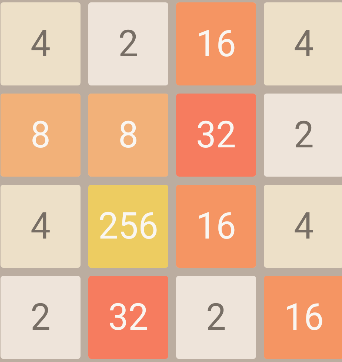
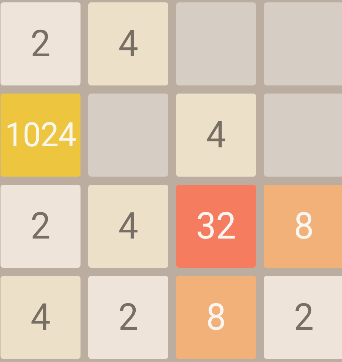
1024 done

diff --git a/cvdata.py b/cvdata.py
@@ -9,7 +9,7 @@ image = cv2.imread('live.png')
 image = image
 large_image = cv2.cvtColor(image, cv2.COLOR_BGR2GRAY)
 
-small_image = cv2.imread('data/16.png')
+small_image = cv2.imread('data/1024.png')
 small_image= cv2.cvtColor(small_image, cv2.COLOR_BGR2GRAY)
 w, h = small_image.shape[::-1]
 

diff --git a/divimage.py b/divimage.py
@@ -13,7 +13,7 @@ def scanimage(image):
 
     plt.show()
 
-    l = ['2.png','4.png','8.png','16.png','32.png','64.png','128.png']
+    l = ['2.png','4.png','8.png','16.png','32.png','64.png','128.png','256.png','512.png','1024.png']
 
     def mydata(imgg):
         val = 0

diff --git a/extract.py b/extract.py
@@ -6,9 +6,9 @@ image = cv2.cvtColor(image, cv2.COLOR_BGR2GRAY)
 
 
 
-i = image[300:330,197:234]
+i = image[120:150,5:80]
 # cv2.imshow("myimage",i)
 plt.imshow(i)
-cv2.imwrite("16.png",i)
+cv2.imwrite("1024.png",i)
 # cv2.waitKey()
 plt.show()
